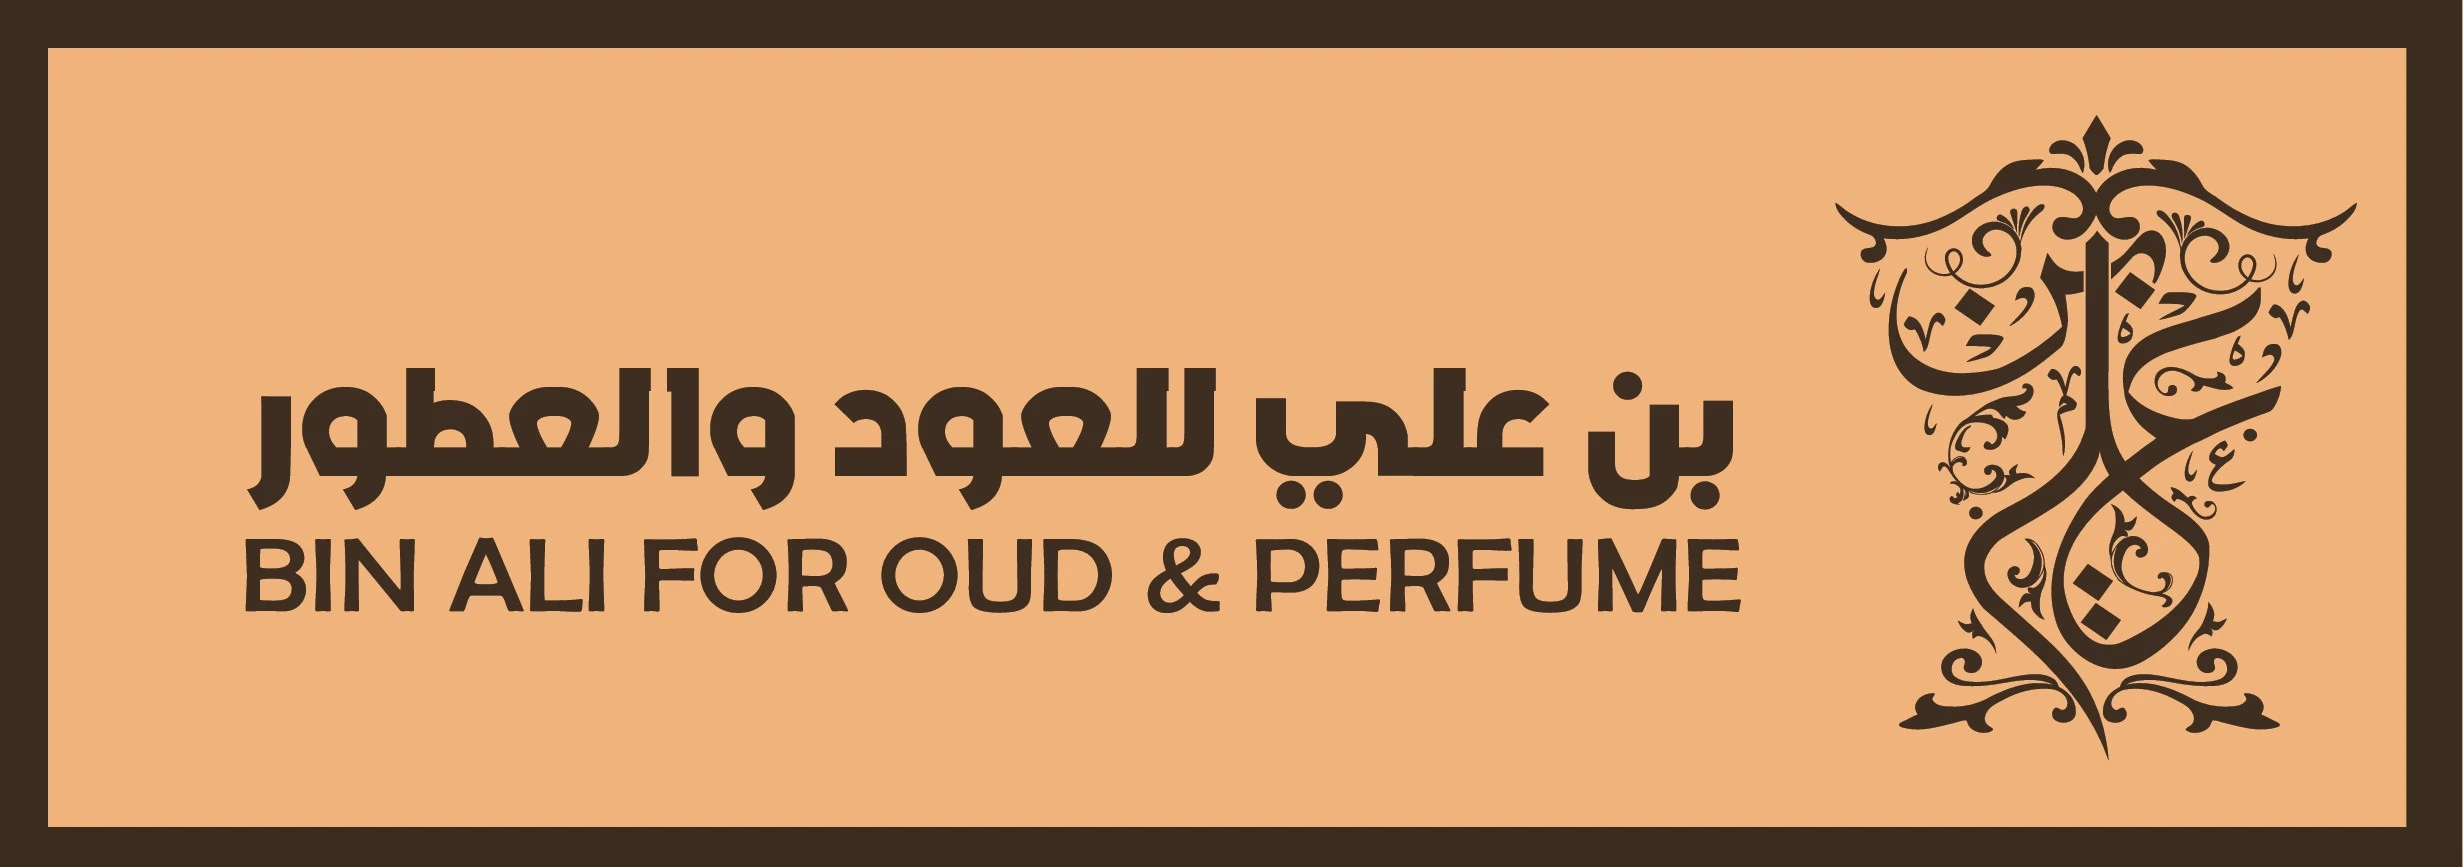
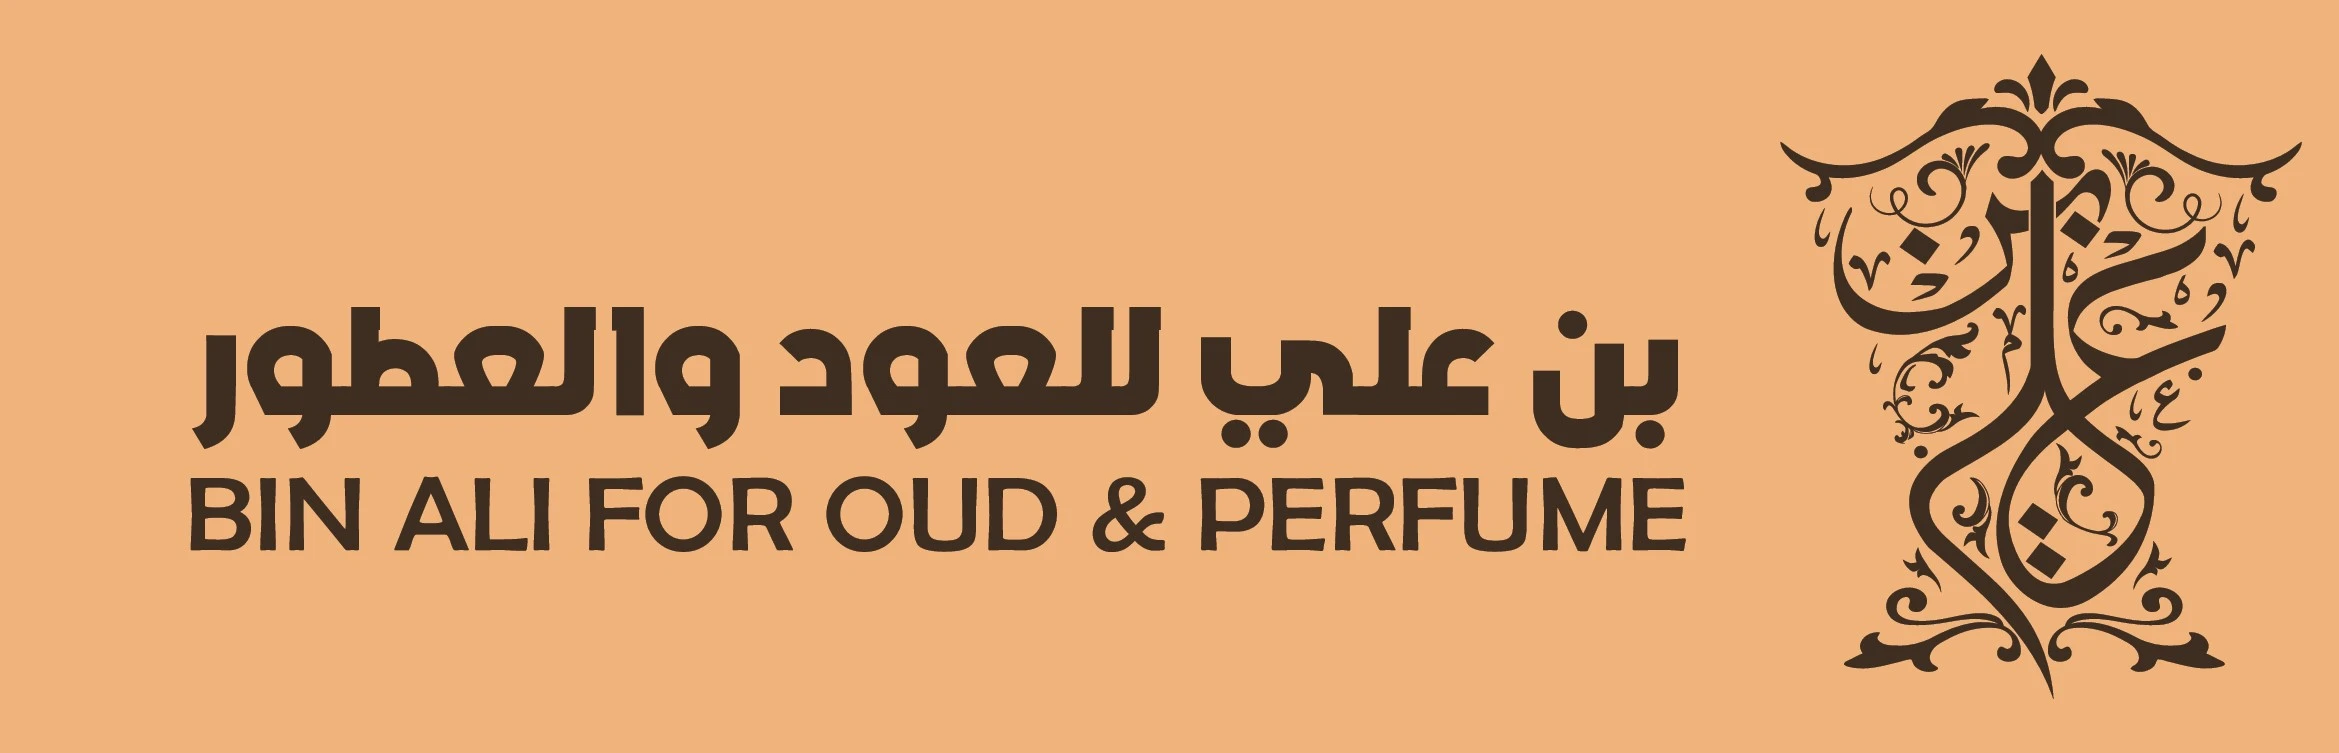
تعديل المسافات

Changed region(s): [[0.0, 0.0, 1.0, 1.0], [0.0624, 0.3971, 0.7178, 0.7331]]

diff --git a/index.html b/index.html
@@ -243,7 +243,7 @@
   <!-- Products End -->
   <!-- Card Start -->
   <section class="Card">
-    <img class="img-fluid" src="assets/imgs/Card2.jpg" />
+    <img class="img-fluid" src="assets/imgs/BIN-ALI.webp" />
   </section>
   <!-- Card End -->
   <!-- Products Start -->
